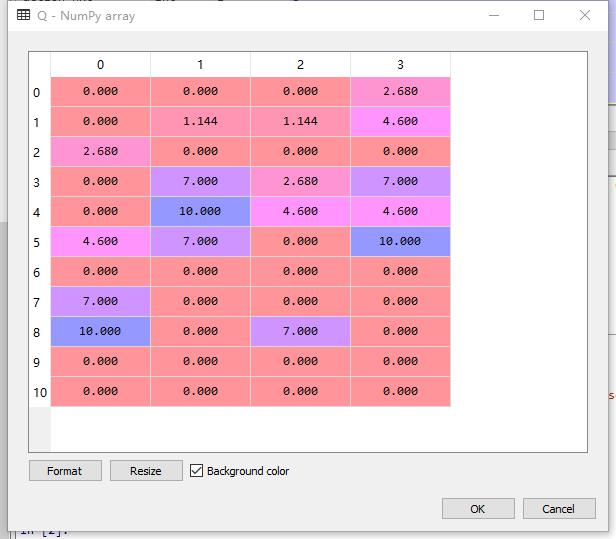
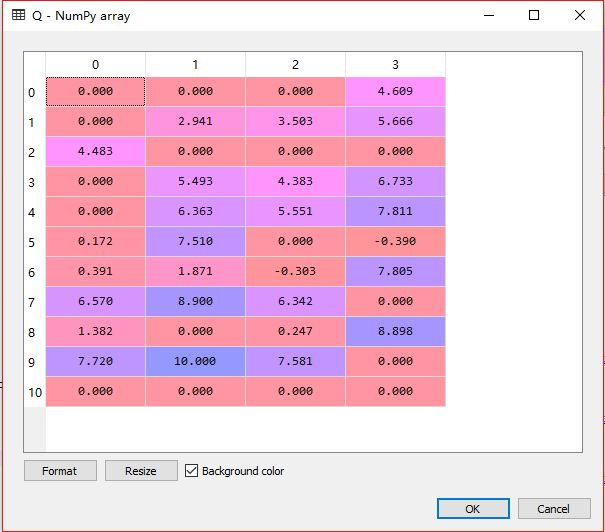
update algorithm

diff --git a/q-learning/run.py b/q-learning/run.py
@@ -1,0 +1,59 @@
+# -*- coding: utf-8 -*-
+"""
+Created on Wed Jun 21 12:32:53 2017
+
+@author: Lingfeng
+"""
+
+import numpy as np
+
+
+reward = np.array([[ 0, 0, 0,-1],   #0
+                   [ 0,-1,-1,-1],
+                   [-1, 0, 0, 0],
+                   [ 0,-1,-1,-1],
+                   [ 0,-1,-1,-1],   
+                   [-1,-1, 0,-1],   #5
+                   [-1,-1,-1,-1],
+                   [-1,-1,-1, 0],
+                   [-1, 0,-1,-1],
+                   [-1,10,-1, 0],
+                   [-1, 0, 0, 0]])   #10
+
+
+# Transition Matrix in order(U D L R) 上下左右
+transition_matrix = np.array([[-1,-1,-1, 1],   #0
+                              [-1, 2, 0, 3],
+                              [ 1,-1,-1,-1],
+                              [-1, 5, 1, 4],
+                              [-1, 6, 3, 7],
+                              [ 3, 8,-1, 6],    #5
+                              [ 4, 8, 5, 7],
+                              [ 4, 9, 6,-1],
+                              [ 6,-1, 5, 9],
+                              [ 7,10, 8,-1],
+                              [ 9,-1,-1,-1]])   #10
+
+start_state = 0
+goal_state = 10
+start_orientation = 3    
+pi = [3, 3, 0, 1, 3, 1, 1, 1, 3, 1, 0]
+
+
+######################################################################################################
+
+
+
+
+current_state = start_state
+current_orientation = start_orientation
+    
+while current_state != goal_state:
+    action = pi[current_state]
+    done = False
+    
+    while not done:
+        print("老子是坑") ### 此处应有执行函数
+        done = True
+        
+    current_state = int(transition_matrix[current_state][action])

diff --git a/q-learning/qlearning.py b/q-learning/qlearning.py
@@ -13,7 +13,9 @@ def qlearning(reward,transition_matrix,start_state,goal_state):
     # Probability of random action
     epsilon = 0.90
     # Learning rate
-    alpha = 0.8
+    alpha = 0.1
+    # Discount factor
+    gamma = 0.99
     
     num_episodes = 1000
     pi = []
@@ -39,16 +41,15 @@ def qlearning(reward,transition_matrix,start_state,goal_state):
             for action_nxt in valid_action[next_state]:
                 furture_reaward.append(Q[next_state][action_nxt])
         
-            Q[current_state][action] = reward[current_state][action] + alpha * max(furture_reaward)
+            Q[current_state][action] = Q[current_state][action] + alpha*(reward[current_state][action] + gamma * max(furture_reaward) - Q[current_state][action])           
             current_state = next_state
 
     for i in xrange(len(Q)):        
         pi.append(valid_action[i][np.argmax(Q[i][valid_action[i]])])
 
-    return pi
+    return pi,Q
 
 # Reward matrix A are in order(U D L R) 上下左右
-
 reward = np.array([[ 0, 0, 0,-1],   #0
                    [ 0,-1,-1,-1],
                    [-1, 0, 0, 0],
@@ -78,5 +79,9 @@ transition_matrix = np.array([[-1,-1,-1, 1],   #0
 
 
 start_state = 0
-goal_state = 10    
-pi = qlearning(reward,transition_matrix,start_state,goal_state)
+goal_state = 10
+start_orientation = 3    
+pi,Q = qlearning(reward,transition_matrix,start_state,goal_state)
+
+
+
